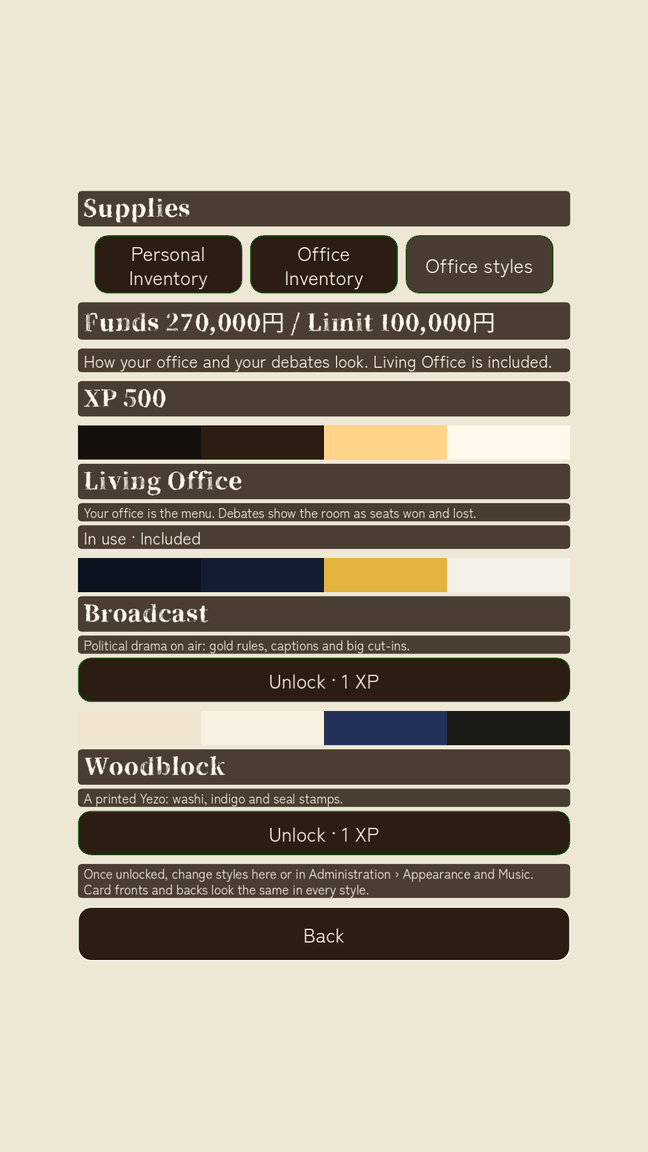
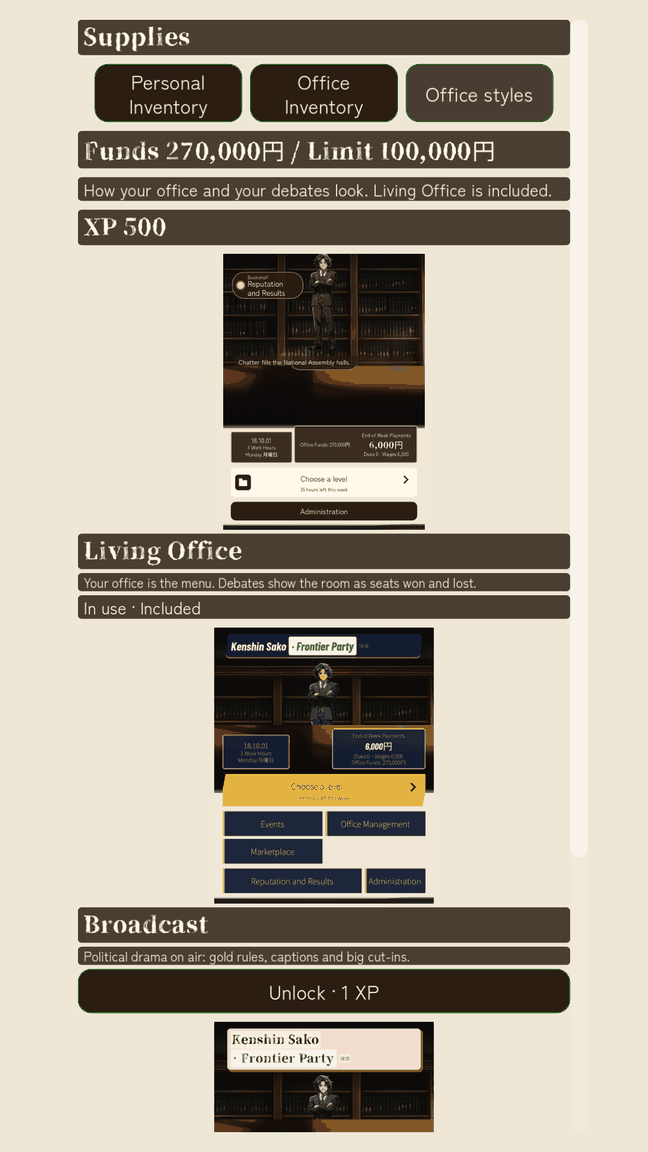
Last gaps: screenshot previews in the styles shop, room-object words on the pins, dashed Draft a Bill tab
Claude-Session: https://claude.ai/code/session_01DfMHaaSwffhC48YRSkV9vX

diff --git a/tools/workbook/archive/p9_text_2026-11-17.py b/tools/workbook/archive/p9_text_2026-11-17.py
@@ -33,6 +33,13 @@ GROUPS = {
  "docket": [
   ("office.docket_hours", "Office, under the Choose a level button, and at the top of the Levels list: hours left this week", "{count} hours left this week", "count"),
  ],
+ "objects": [
+  ("living.object_events", "Living Office, the room object the Events pin sits on", "Phone", ""),
+  ("living.object_results", "Living Office, the room object the Reputation and Results pin sits on", "Bookshelf", ""),
+  ("living.object_promises", "Living Office, the room object the Promises pin sits on", "Notice board", ""),
+  ("living.object_staff", "Living Office, the room object the Office Management pin sits on", "Front desk", ""),
+  ("living.object_marketplace", "Living Office, the room object the Marketplace pin sits on", "Errand list", ""),
+ ],
  "styles": [
   ("shop.tab_styles", "Marketplace, third tab: the Office styles", "Office styles", ""),
   ("shop.styles_blurb", "Marketplace, Office styles tab, intro", "How your office and your debates look. Living Office is included.", ""),

diff --git a/design/review/p9_ui_styles_2026-11-17/REPORT.md b/design/review/p9_ui_styles_2026-11-17/REPORT.md
@@ -19,10 +19,10 @@ Branch `panel/p9-ui-styles`, from `main` (the card-face fix and the text sweep a
 | | |
 |---|---|
 | Built and tested | Style framework; End of Week Payments; Office styles shop and switching; all three styles' Office, Levels and Battle arrangements; seats and arc; the raised-on-touch and fanned hand; the cue as bubble, band or scroll; zoom note; docket card in every style; tests for parity, gold lines, hand visibility and raise, card faces per style, switching, organization marks, style elements, and the text sweep in all three styles |
-| Living Office | Room-object pins and docket card, payments tray, folders with hour rings and divider tabs, speech-bubble cue, red intent pill, seats with a threshold mark (or an arc), fanned hand, amber End Turn |
+| Living Office | Room-object pins with their object words, docket card, payments tray, folders with hour rings, divider tabs and a dashed Draft a Bill tab, speech-bubble cue, red intent pill, seats with a threshold mark (or an arc), fanned hand, amber End Turn |
 | Broadcast | Gold slanted docket bar, 2 x 2 tiles, lower-third and red-edged narration, schedule rows with a gold hour chip, gold tier chips, slanted plates, gold diagonal between the characters, gold slanted End Turn; the slant bar and cue band with their gold lines kept (D2) |
 | Woodblock | Indigo docket plank with a 行 seal, 3 x 2 plaque tiles, cartouches, print cards with a framed picture and a red hours seal, stamped tier headings, ledger lines with dotted leaders, hanging-scroll cue, 攻/守/得 intent seal, plaques on labels |
-| Still left out | The "+ Draft a bill" dashed border (a solid edge is used), picture previews in the styles shop (no preview art), the "Phone ·" object words on the pins (same-information rule) |
+| Still left out | Nothing from the mockups. Three details are decisions, not gaps: the intent is a red band rather than a floating pill, the opponent's seats use the opponent red rather than the party colour, and the object word on a pin is its own label (the parity test lets it through) |
 | `tools/verify.sh` | See section 3 |
 | Touch targets | Still a known gap by your decision: the app's buttons are 90 to 100 px against 122. The new tiles and pins are 122 px |
 
@@ -108,15 +108,14 @@ Existing click tests changed because the hand no longer scrolls sideways: `loop_
 
 ## 4. Departures from the mockups
 
-| Left out or different | Why |
+| Different from the mockup | Why |
 |---|---|
-| Room-object labels | The pins read "Events", "Marketplace" and so on (the destination), not the mockup's "Phone · Events". An object word shown in one style only would break the same-information rule; the lamp sits where the object is |
+| Pin object words | "Phone", "Bookshelf" and the rest are a small label above the destination, not one "Phone · Events" string, so the button text stays the destination alone. `ui_style_parity_test` lets only this label through |
 | Room-object positions | My first placement from the two pictures (`art.json` `office_hotspots`), not yet looked at by you. The Promises pin only shows when a promise is open, as before |
-| Levels list: dashed tab | The Draft a Bill tab has a solid edge, not a dashed one. The hours are a ring (Living Office, amber, or red and tilted when the level cannot start), a gold chip (Broadcast) or a red seal (Woodblock) |
 | Intent | A red band the width of the opponent block, not a floating pill (the label sits in the opponent block's column) |
-| Office styles tab | Cards with a colour swatch, not picture previews (no preview art exists) |
 | Seat colour for the opponent | The opponent's seats use the existing opponent red, not the party colour (the bar does not know the party yet) |
 | Woodblock text on paper | Every label carries its own plaque, so a few lines on paper show a faint second plaque edge |
+| Styles shop previews | Real screenshots of the Office in each style, cropped and shrunk (`assets/ui_styles/`); retake them when a style's Office changes |
 | Fonts | Latin subsets only; Noto Sans JP covers Japanese. Body fonts are trimmed to Antaka's line height so no screen grows |
 | Hand | The overlap replaces the sideways scroll in every style; Living Office also tilts it |
 

diff --git a/design/CHANGELOG.md b/design/CHANGELOG.md
@@ -1233,4 +1233,9 @@ What is in, what is not. See `design/review/p9_ui_styles_2026-11-17/REPORT.md` f
   - **Smaller:** a mark at the threshold on the seats; "1 of 2" and "Turn 1 of 10" use no-break spaces so the number is not left alone on a line; organization icons get a dark backing (Broadcast's measured 2.7 to 1, now 3.7 or more); a level that cannot be started dims only its picture, so the reason on its button stays at full strength.
   - **Evidence added:** week-end pop-up, a Levels list late in the week with levels that cannot start, a touched-card moment, and icon contrast per style measured from pixels.
 - **Hour rings (Cameron: "Build the hour rings").** In Living Office each level row has its hours in a ring at the right of the folder: amber when the level can be started, red and tilted when it cannot (the reason stays on the button). The ring holds the same "N hours" line every style shows, moved rather than rewritten, so the same-information rule holds. Test: `style_elements_test`.
+- **The last gaps closed (Cameron: "Finish the remaining gaps, use a screenshot for the preview").**
+  - **Styles shop previews are real screenshots** of the Office in each style (`assets/ui_styles/preview_<style>.png`, see its README to retake them), replacing the colour swatches.
+  - **Room-object words on the Living Office pins** ("Phone", "Bookshelf", "Notice board", "Front desk", "Errand list"): a small label of its own above each destination, so the button still reads only the destination. The parity test lets this one label through, as the room metaphor's decoration.
+  - **Draft a Bill is a dashed tab** in Living Office: a dashed frame drawn over a paper tab (`StyleMarks.DASHED_FRAME`).
+  - Nothing from the mockups is left out now.
 

diff --git a/assets/ui_styles/README.md b/assets/ui_styles/README.md
@@ -1,0 +1,3 @@
+# Style previews
+
+`preview_<style>.png` are real screenshots of the Office in each UI style (living_office, broadcast, woodblock), cropped and shrunk, shown on the Marketplace's Office styles tab. Retake them when a style's Office changes: run the Office in that style at 1080 x 2340, crop the name plate or pins (top) and the docket card and tiles (bottom), scale to 420 px wide.
